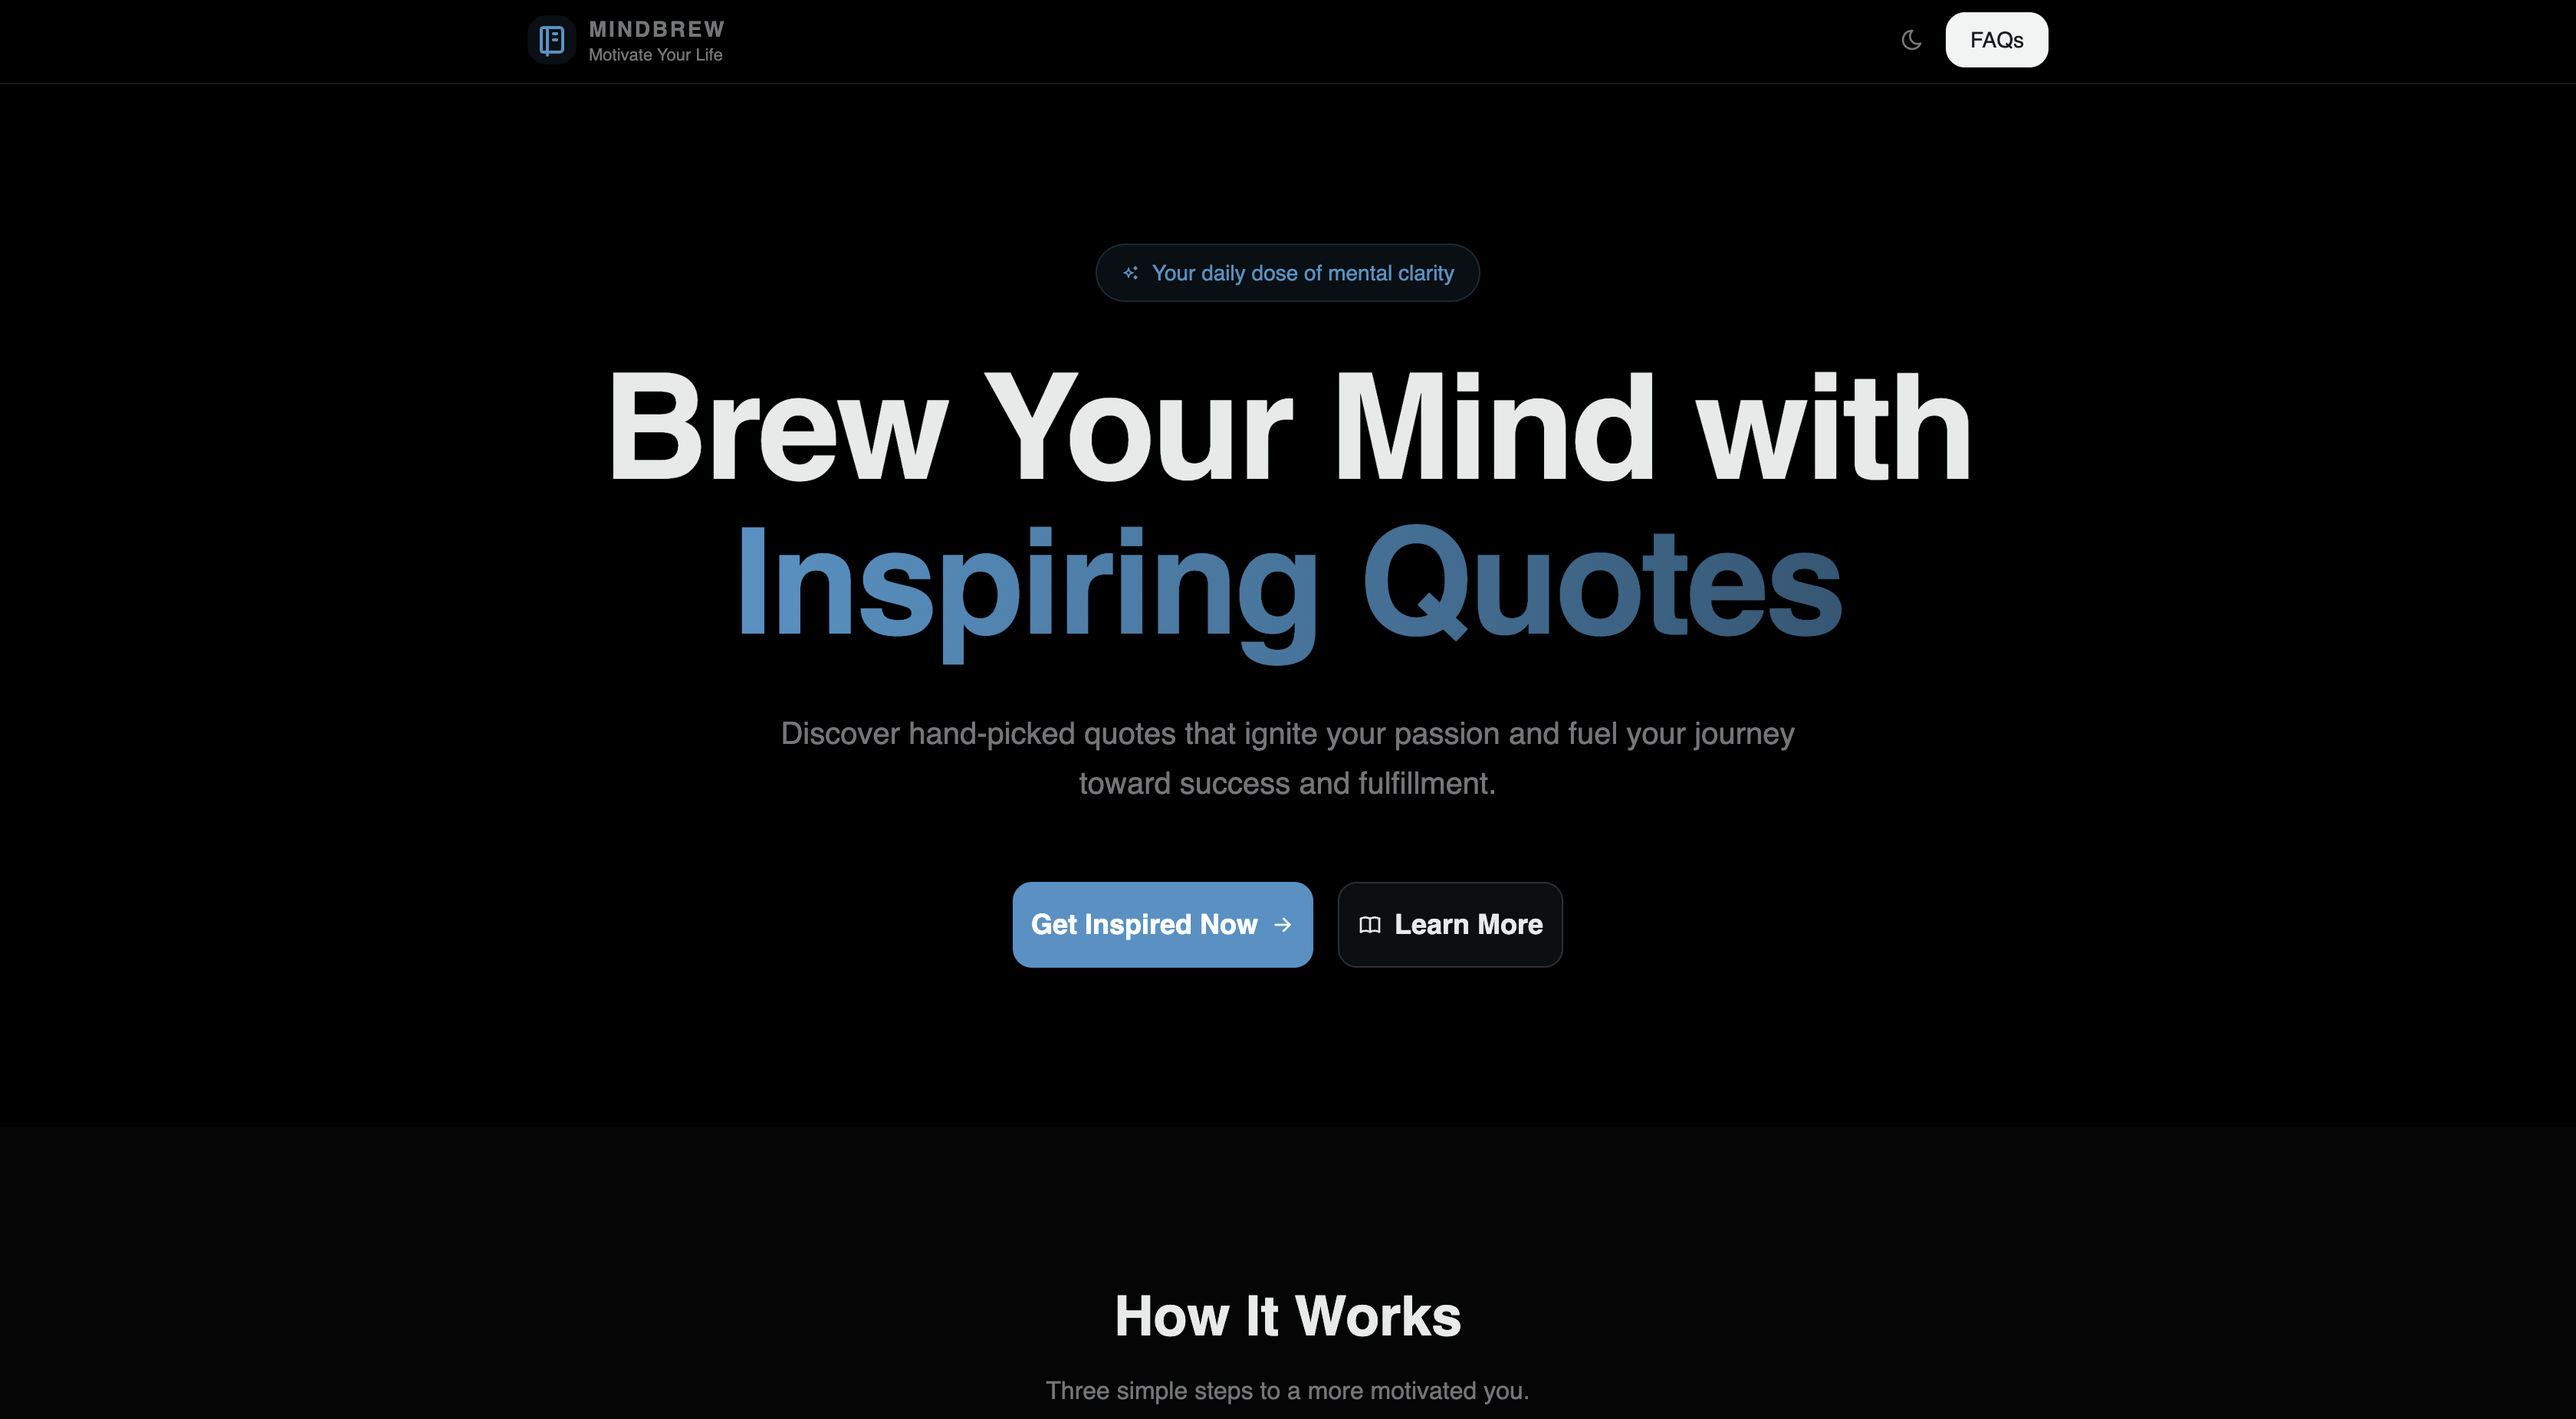
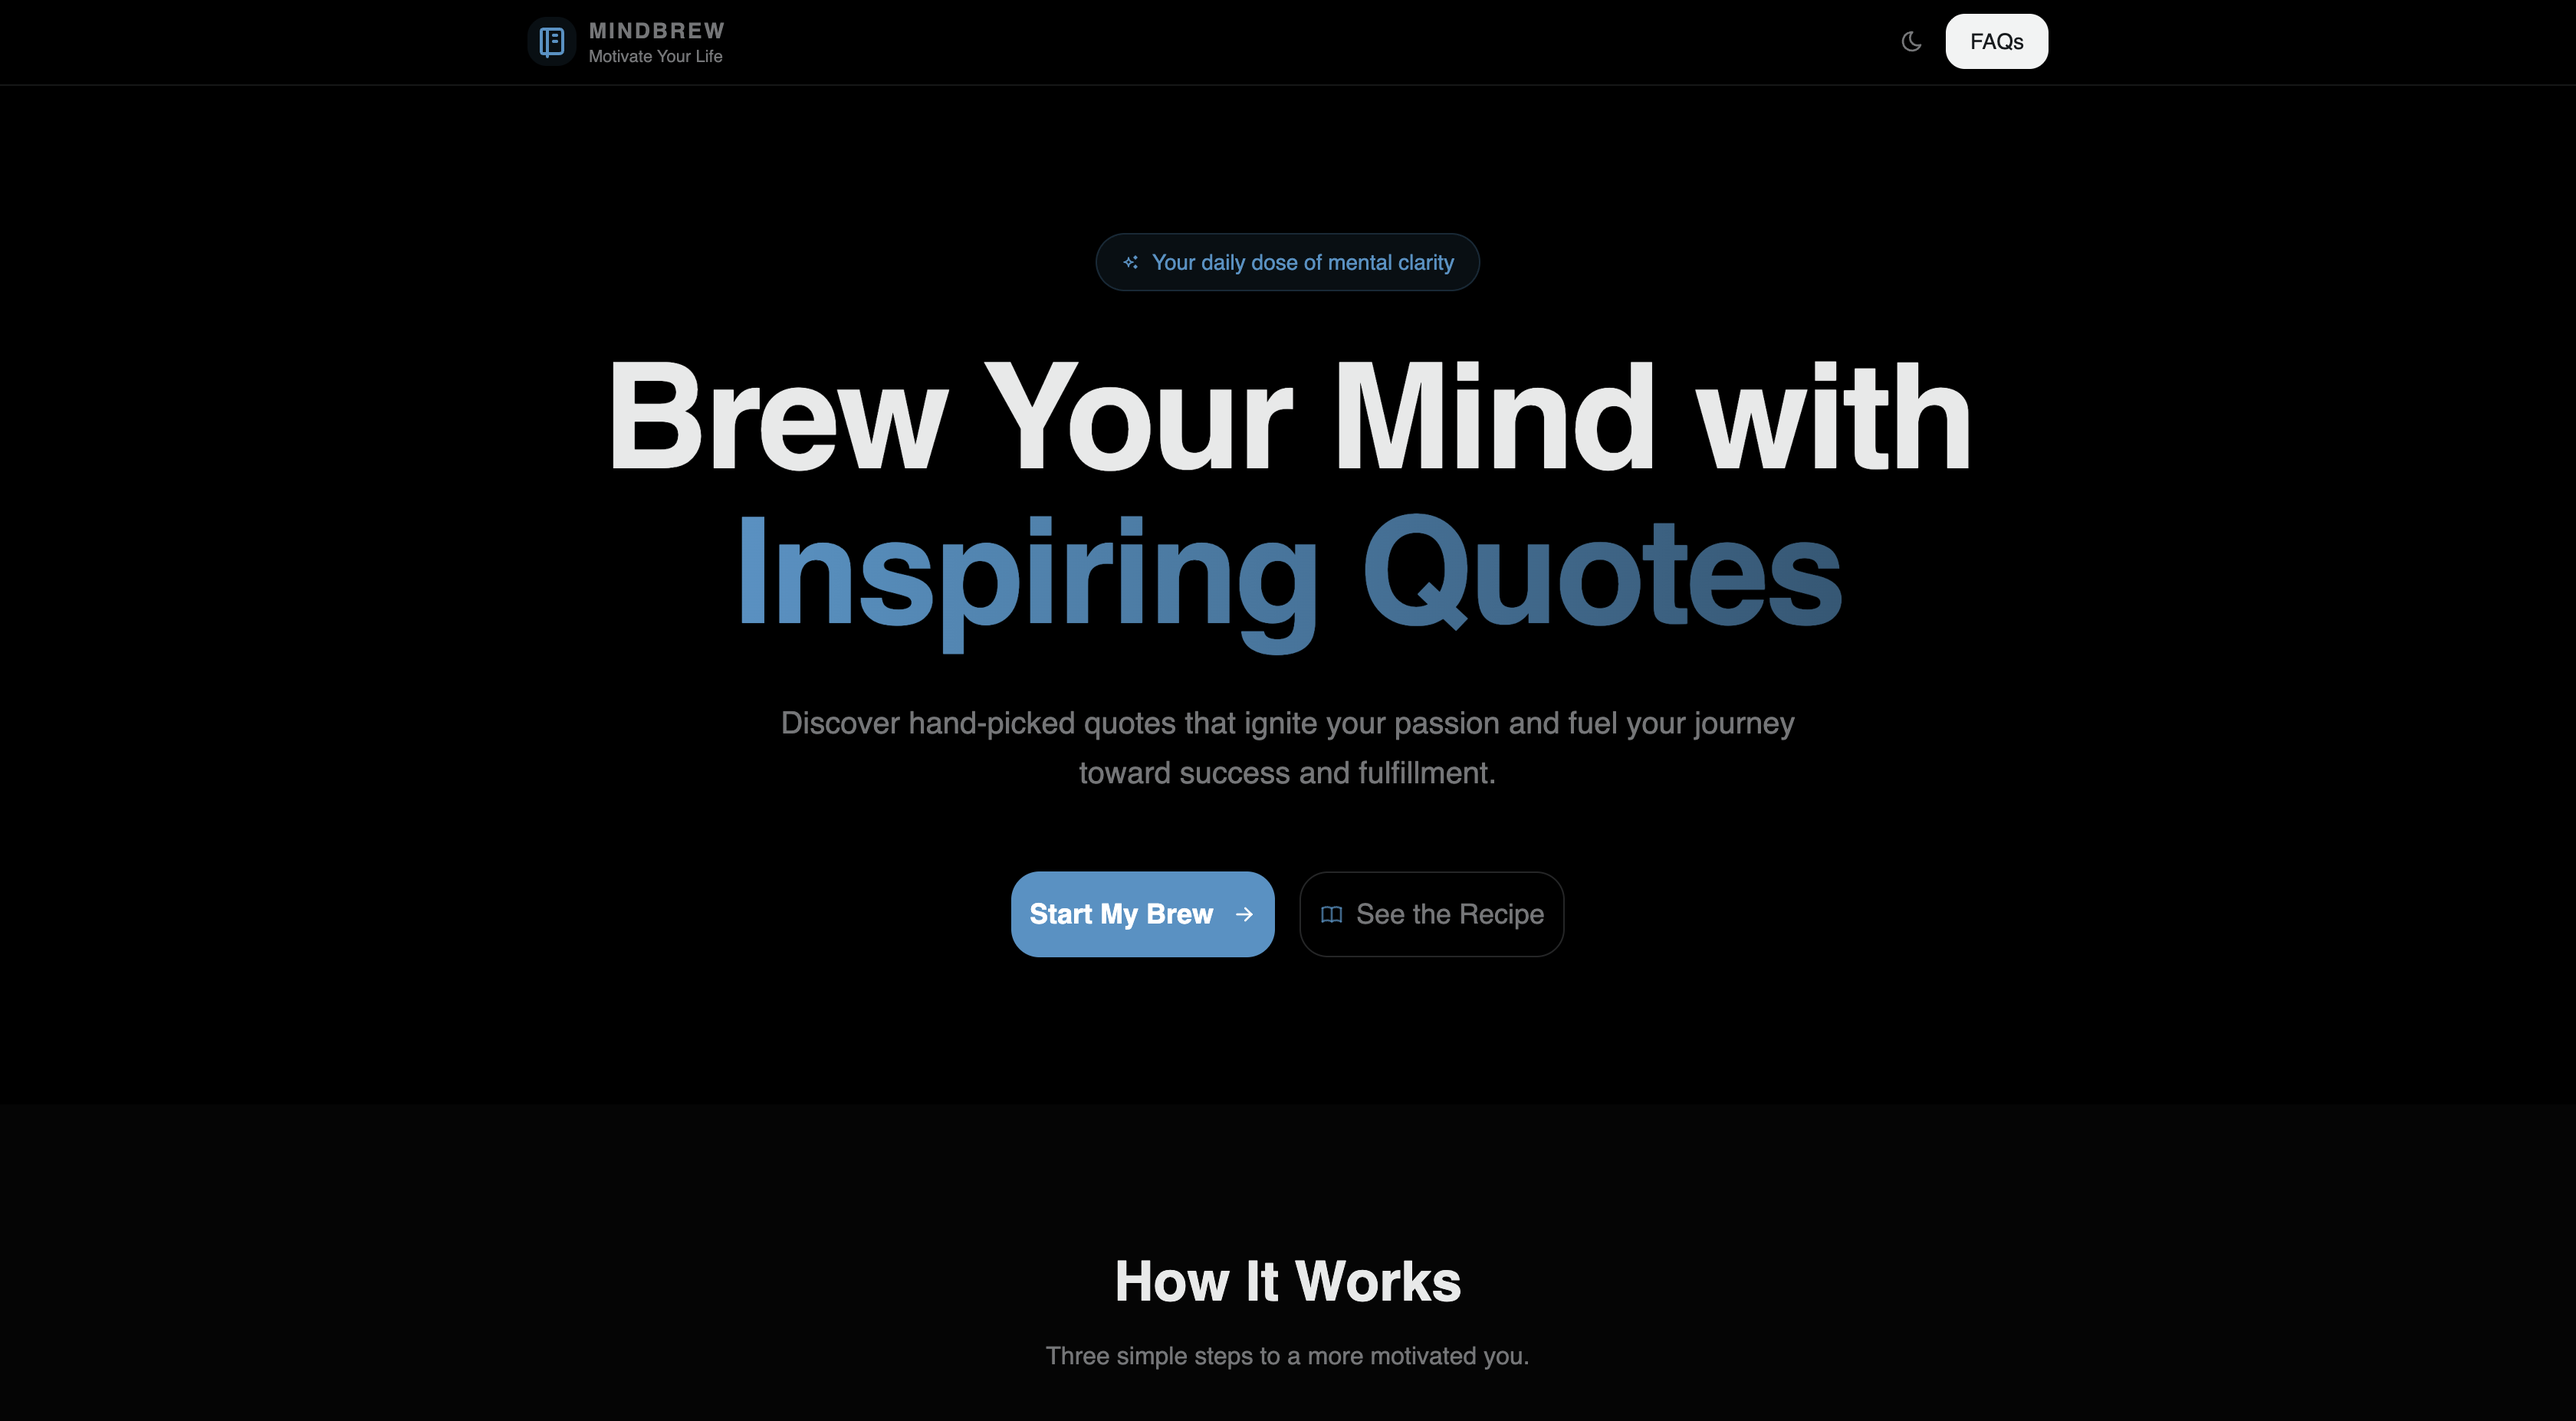
fix readme

diff --git a/README.md b/README.md
@@ -33,23 +33,16 @@ MindBrew is the ultimate destination for daily motivation. Explore quotes on suc
 2. Install dependencies:
 
    ```bash
-   pnpm install
+   bun install
    ```
 
 3. Start the development server:
 
    ```bash
-   pnpm dev
+   bun dev
    ```
 
 4. Open [http://localhost:3000](http://localhost:3000) in your browser.
-
-## Available Scripts
-
-- `pnpm dev` - Start the development server
-- `pnpm build` - Build the project for production
-- `pnpm preview` - Preview the production build locally
-- `pnpm lint` - Run ESLint for code linting
 
 ## Project Structure
 
